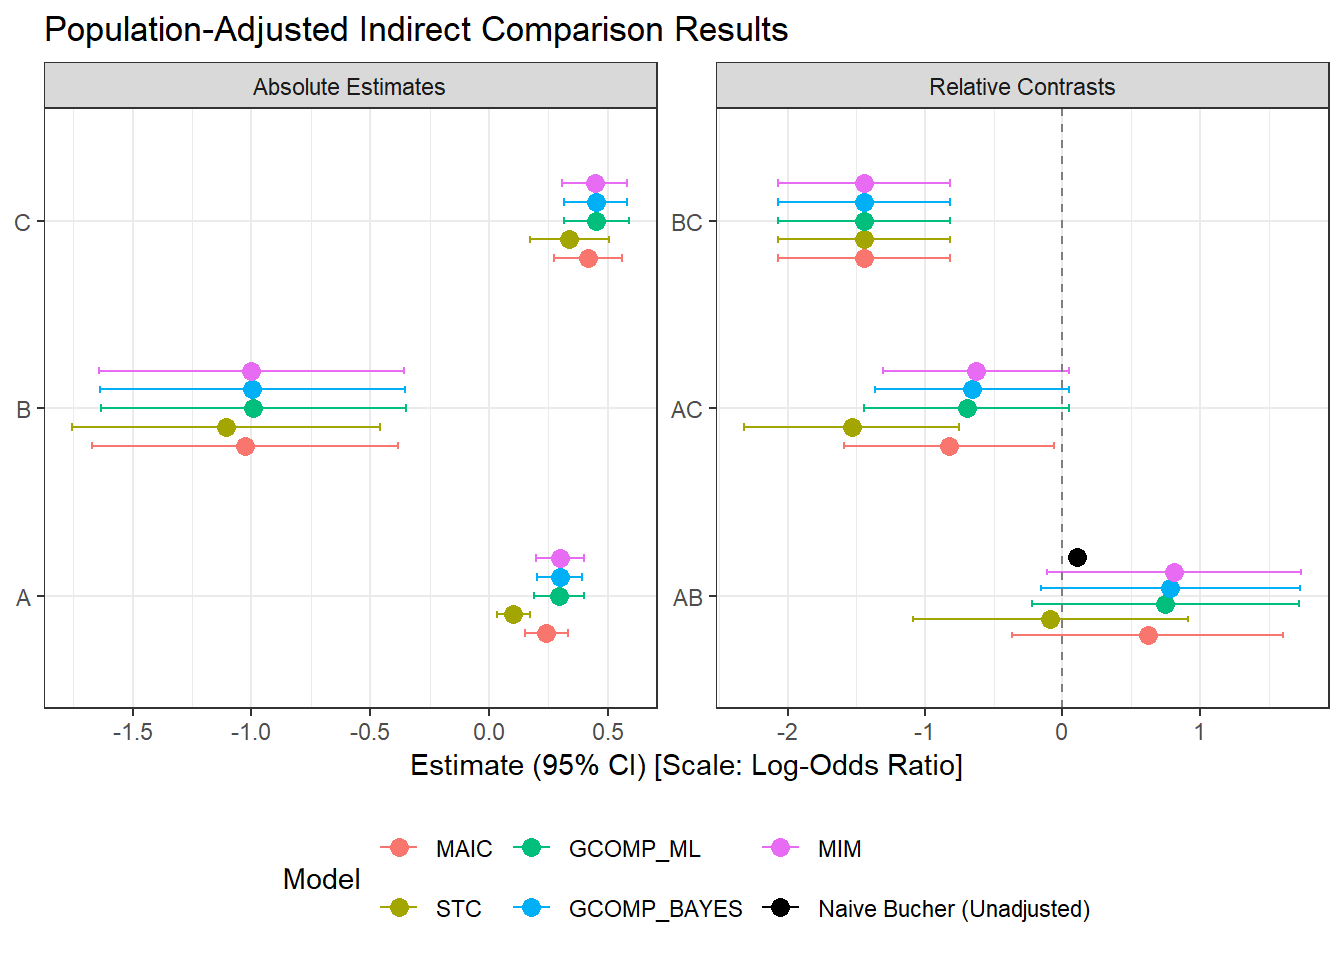
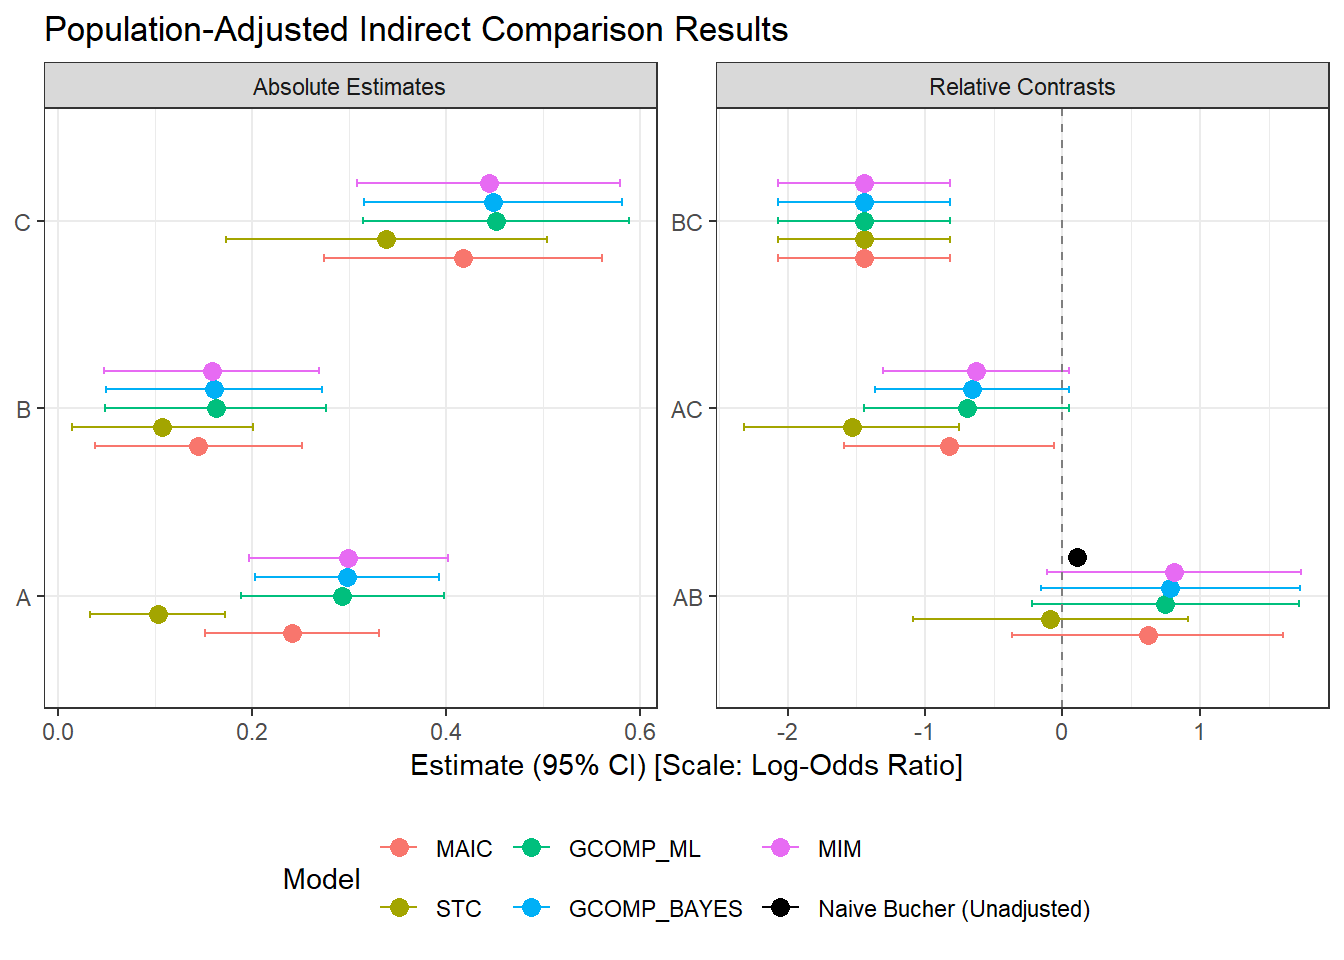
render joss md

diff --git a/inst/jss-section.html b/inst/jss-section.html
@@ -478,9 +478,9 @@ Absolute:
 # A tibble: 3 × 5
   Treatments Estimate Std.Error lower.0.95 upper.0.95
   &lt;chr&gt;         &lt;dbl&gt;     &lt;dbl&gt;      &lt;dbl&gt;      &lt;dbl&gt;
-1 A             0.241    0.0457      0.151      0.330
-2 B            -1.03     0.328      -1.67      -0.384
-3 C             0.417    0.0731      0.274      0.561</code></pre>
+1 A             0.241    0.0457     0.151       0.330
+2 B             0.145    0.0543     0.0382      0.251
+3 C             0.417    0.0731     0.274       0.561</code></pre>
 </div>
 </div>
 <p>This contains the same information as the raw output but in a more presentable format. The first block of text provides modelling details, and the following tibbles show the contrast and absolute effects, respectively.</p>
@@ -554,9 +554,9 @@ Absolute:
 # A tibble: 3 × 5
   Treatments Estimate Std.Error lower.0.95 upper.0.95
   &lt;chr&gt;         &lt;dbl&gt;     &lt;dbl&gt;      &lt;dbl&gt;      &lt;dbl&gt;
-1 A             0.242    0.0493      0.145      0.339
-2 B            -1.03     0.328      -1.67      -0.390
-3 C             0.412    0.0713      0.272      0.551</code></pre>
+1 A             0.242    0.0493     0.145       0.339
+2 B             0.142    0.0529     0.0381      0.245
+3 C             0.412    0.0713     0.272       0.551</code></pre>
 </div>
 </div>
 <p>Imposing additional second-moment constraints slightly shifts the adjusted <span class="math inline">\(AC\)</span> log-odds ratio (from <span class="math inline">\(-0.824\)</span> to <span class="math inline">\(-0.797\)</span>) and increases its standard error (from <span class="math inline">\(0.390\)</span> to <span class="math inline">\(0.395\)</span>), while reducing the effective sample size (<code>$model$ESS</code>) from <span class="math inline">\(136.9\)</span> under <code>moments = 1</code> to <span class="math inline">\(128.9\)</span> under <code>moments = 2</code>. The STC, G-computation and MIM analyses are performed similarly but with the <code>outcome_model</code> specified instead of the <code>balance_model</code>.</p>
@@ -1029,9 +1029,9 @@ Absolute:
 # A tibble: 3 × 5
   Treatments Estimate Std.Error lower.0.95 upper.0.95
   &lt;chr&gt;         &lt;dbl&gt;     &lt;dbl&gt;      &lt;dbl&gt;      &lt;dbl&gt;
-1 A            0.402     0.0639      0.277      0.527
-2 B            0.0468    0.245      -0.433      0.526
-3 C            1.31      0.185       0.942      1.67 </code></pre>
+1 A             0.402    0.0639      0.277      0.527
+2 B             0.371    0.0793      0.215      0.526
+3 C             1.31     0.185       0.942      1.67 </code></pre>
 </div>
 </div>
 <p>The corresponding calls to <code>outstandR()</code> for the other analyses follow similarly.</p>
@@ -1469,11 +1469,11 @@ Absolute:
 <p>There are scenarios where manual specification via the <code>marginal_params</code> argument is also necessary. One use case is as a sensitivity analysis, where a researcher wishes to assess the robustness of the relative treatment effect estimates to deviations in the target population’s characteristics of the IPD trial. For instance, if the ALD reports a mean age of 65, a researcher might wish to simulate a target population with a mean age of 70 to test if the conclusions hold for an older cohort. Additionally, manual specification is required for distributions where the method of moments conversion is not natively supported by the package (e.g., specific parameterizations of the Weibull distribution).</p>
 <p>The following code illustrates how to manually override the ALD statistics to simulate an older population.</p>
 <div class="cell">
-<div class="code-copy-outer-scaffold"><div class="sourceCode cell-code" id="cb200"><pre class="sourceCode r code-with-copy"><code class="sourceCode r"><span id="cb200-1"><a href="#cb200-1" aria-hidden="true" tabindex="-1"></a><span class="co"># manually specify parameters for 'age' (mean=70, sd=10.5)</span></span>
-<span id="cb200-2"><a href="#cb200-2" aria-hidden="true" tabindex="-1"></a><span class="co"># convert mean=70/sd=10.5 to shape/rate manually </span></span>
+<div class="code-copy-outer-scaffold"><div class="sourceCode cell-code" id="cb200"><pre class="sourceCode r code-with-copy"><code class="sourceCode r"><span id="cb200-1"><a href="#cb200-1" aria-hidden="true" tabindex="-1"></a><span class="co"># manually specify parameters for 'X1' (mean=0.8, sd=0.45 instead of ALD mean=0.608, sd=0.436)</span></span>
+<span id="cb200-2"><a href="#cb200-2" aria-hidden="true" tabindex="-1"></a><span class="co"># convert mean=0.8/sd=0.45 to shape/rate manually </span></span>
 <span id="cb200-3"><a href="#cb200-3" aria-hidden="true" tabindex="-1"></a><span class="co"># or pass them if we already know the specific shape/rate</span></span>
-<span id="cb200-4"><a href="#cb200-4" aria-hidden="true" tabindex="-1"></a>target_mean <span class="ot">&lt;-</span> <span class="dv">70</span></span>
-<span id="cb200-5"><a href="#cb200-5" aria-hidden="true" tabindex="-1"></a>target_sd <span class="ot">&lt;-</span> <span class="fl">10.5</span></span>
+<span id="cb200-4"><a href="#cb200-4" aria-hidden="true" tabindex="-1"></a>target_mean <span class="ot">&lt;-</span> <span class="fl">0.8</span></span>
+<span id="cb200-5"><a href="#cb200-5" aria-hidden="true" tabindex="-1"></a>target_sd <span class="ot">&lt;-</span> <span class="fl">0.45</span></span>
 <span id="cb200-6"><a href="#cb200-6" aria-hidden="true" tabindex="-1"></a></span>
 <span id="cb200-7"><a href="#cb200-7" aria-hidden="true" tabindex="-1"></a>new_params <span class="ot">&lt;-</span> <span class="fu">list</span>(</span>
 <span id="cb200-8"><a href="#cb200-8" aria-hidden="true" tabindex="-1"></a>  <span class="at">X1 =</span> <span class="fu">list</span>(<span class="at">shape =</span> (target_mean<span class="sc">/</span>target_sd)<span class="sc">^</span><span class="dv">2</span>, </span>
@@ -1537,8 +1537,8 @@ Contrasts:
 # A tibble: 3 × 5
   Treatments Estimate Std.Error lower.0.95 upper.0.95
   &lt;chr&gt;         &lt;dbl&gt;     &lt;dbl&gt;      &lt;dbl&gt;      &lt;dbl&gt;
-1 AB          -22.8      32.8       -87.1      41.4  
-2 AC          -23.8      32.8       -88.0      40.4  
+1 AB           -0.355     0.346      -1.03      0.323
+2 AC           -1.28      0.298      -1.87     -0.698
 3 BC           -0.926     0.176      -1.27     -0.581
 
 Absolute:
@@ -1546,9 +1546,9 @@ Absolute:
 # A tibble: 3 × 5
   Treatments Estimate Std.Error lower.0.95 upper.0.95
   &lt;chr&gt;         &lt;dbl&gt;     &lt;dbl&gt;      &lt;dbl&gt;      &lt;dbl&gt;
-1 A              62.1      16.1       30.5       93.8
-2 B              85.0      29.2       27.7      142. 
-3 C              85.9      29.2       28.7      143. </code></pre>
+1 A           -0.334      0.153     -0.634    -0.0338
+2 B            0.0215     0.319     -0.603     0.646 
+3 C            0.948      0.265      0.428     1.47  </code></pre>
 </div>
 </div>
 </section>
